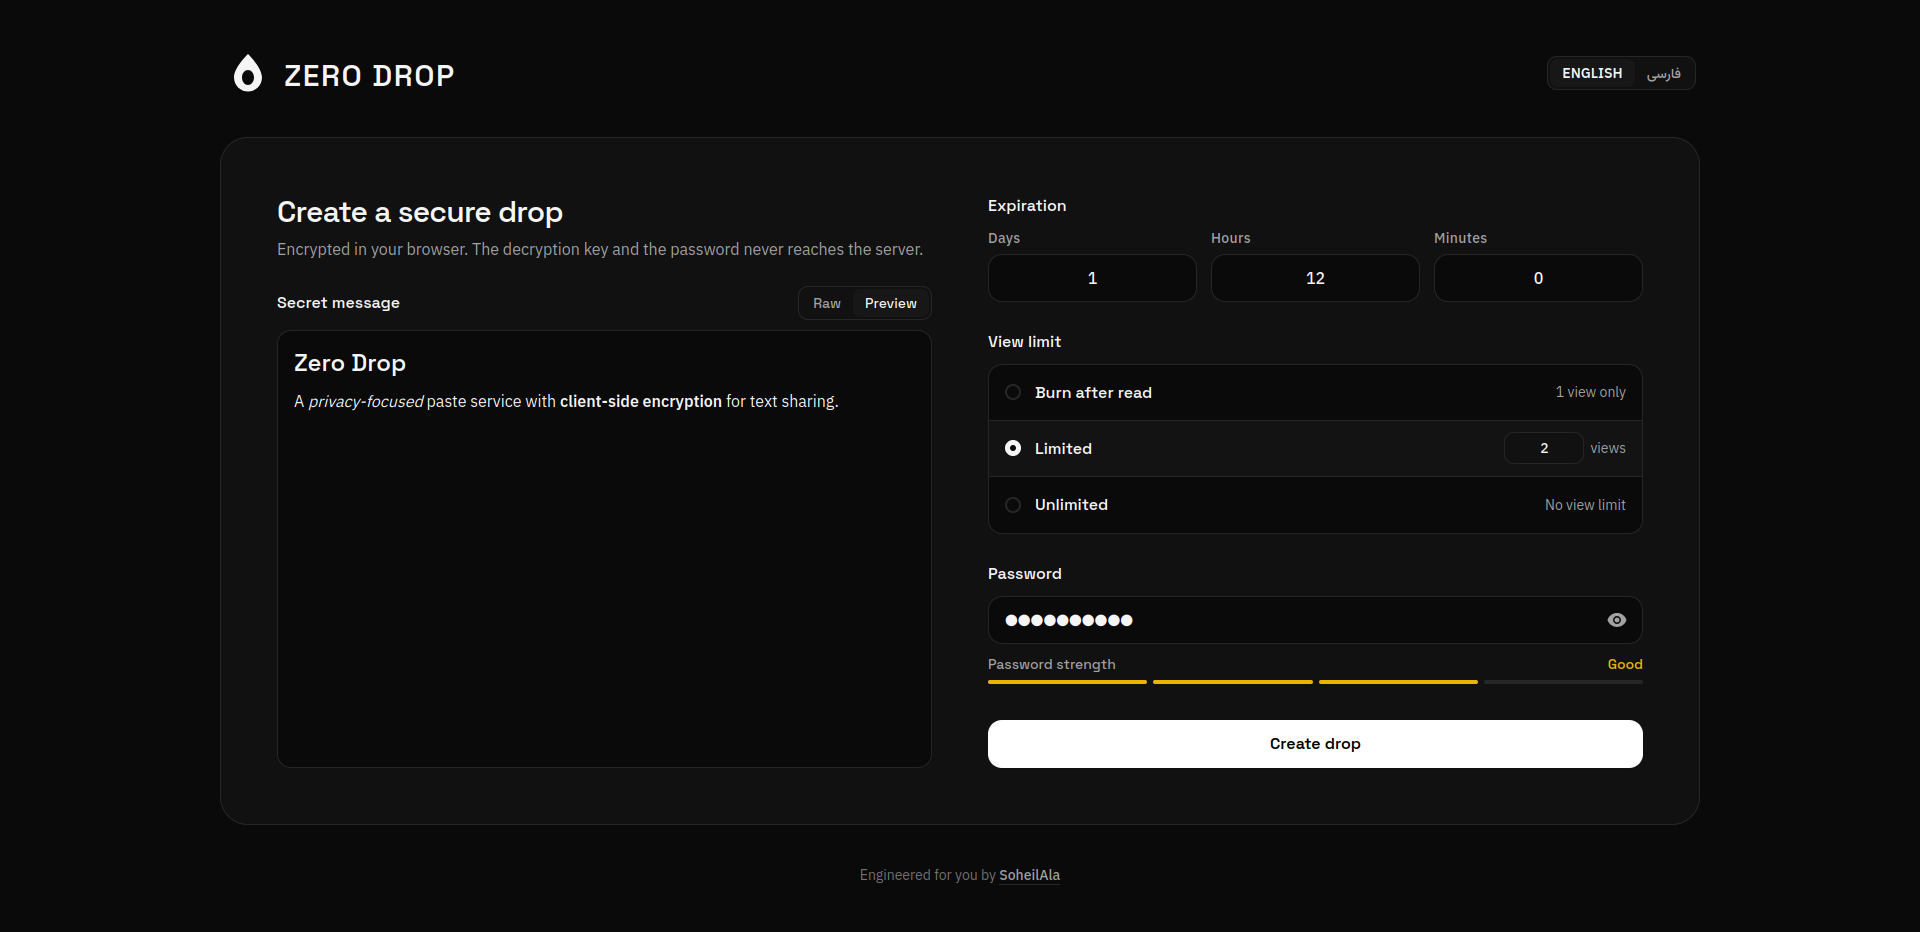
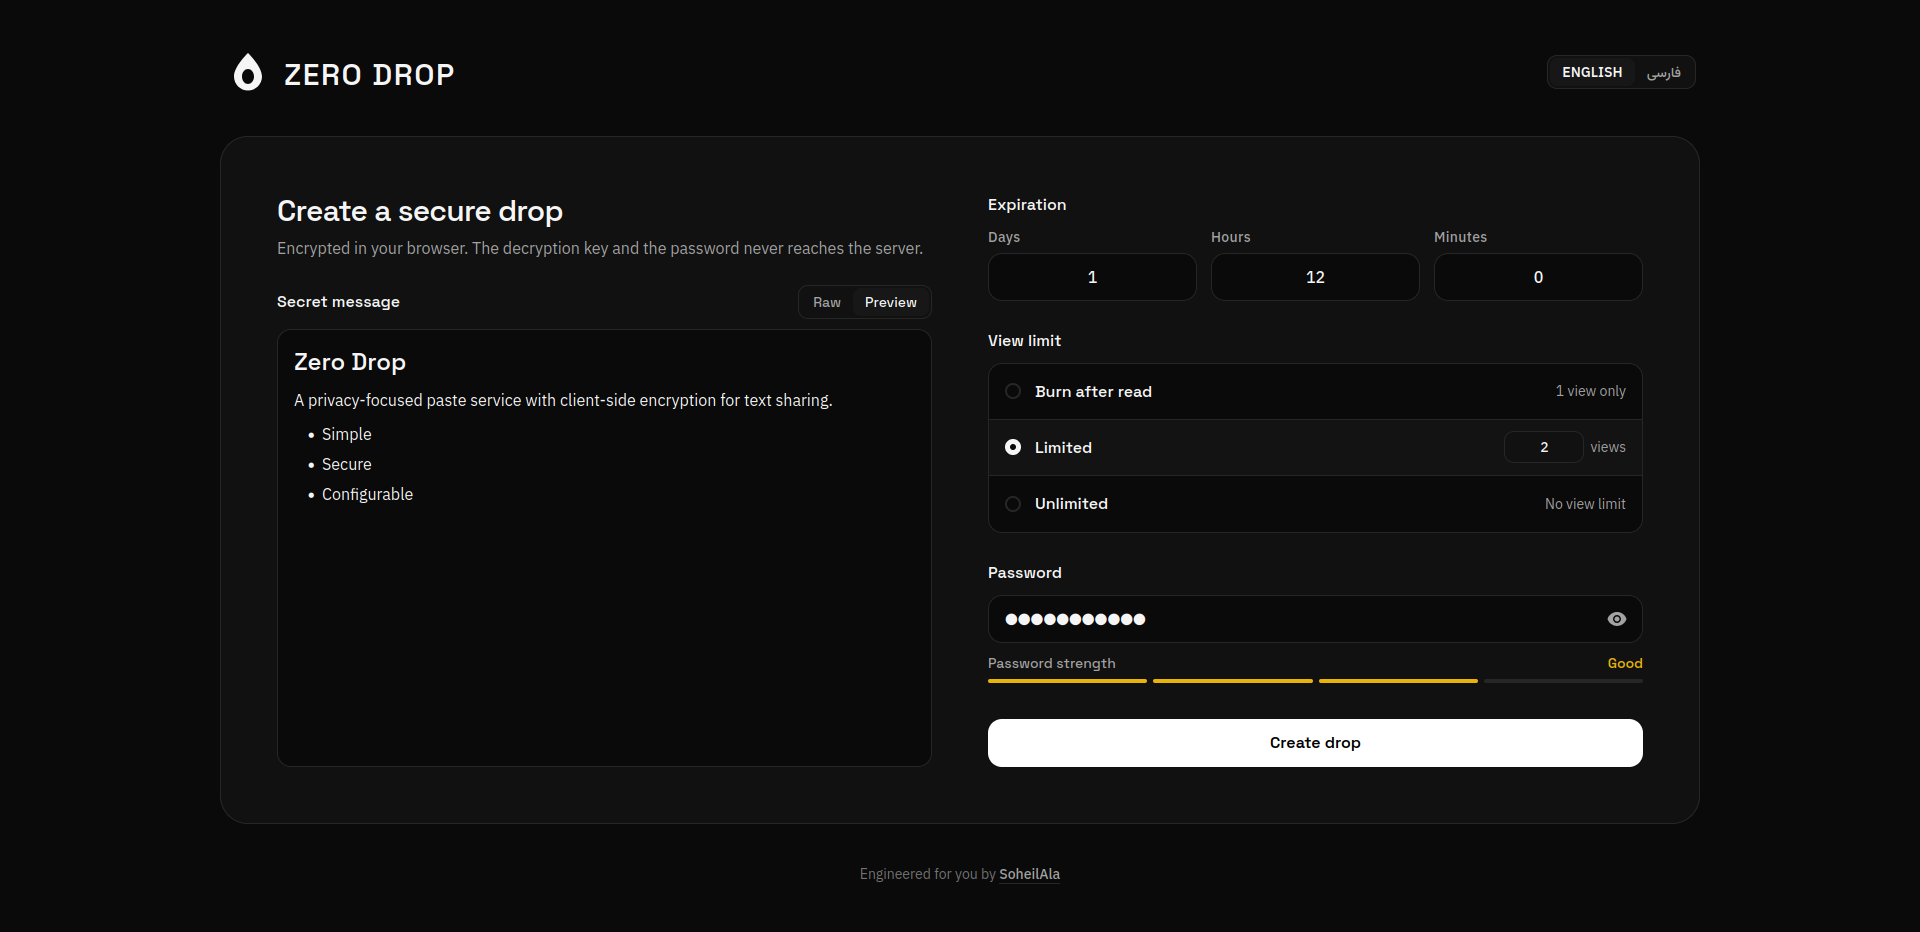
fix: resolve markdown preview RTL alignment, task lists, and codeblock styling

diff --git a/frontend/src/style.css b/frontend/src/style.css
@@ -10,12 +10,15 @@
 @import "@fontsource/vazirmatn/500.css";
 @import "@fontsource/vazirmatn/600.css";
 @import "@fontsource/vazirmatn/700.css";
+@import "@fontsource/space-mono/400.css";
+@import "@fontsource/space-mono/700.css";
 
 @theme {
   --font-sans:
     "IBM Plex Sans", Vazirmatn, -apple-system, BlinkMacSystemFont, "Segoe UI", Roboto, sans-serif;
   --font-heading:
     "Space Grotesk", Vazirmatn, -apple-system, BlinkMacSystemFont, "Segoe UI", Roboto, sans-serif;
+  --font-mono: "Space Mono", ui-monospace, SFMono-Regular, Menlo, Monaco, Consolas, monospace;
 
   --color-background: #0a0a0a;
   --color-surface: #111111;
@@ -157,14 +160,14 @@ input[type="number"] {
 
 .markdown-body ul {
   list-style-type: disc;
-  padding-inline-start: 1.5rem;
+  padding-inline-start: 1.75rem;
   margin-top: 0.5rem;
   margin-bottom: 0.5rem;
 }
 
 .markdown-body ol {
   list-style-type: decimal;
-  padding-inline-start: 1.5rem;
+  padding-inline-start: 1.75rem;
   margin-top: 0.5rem;
   margin-bottom: 0.5rem;
 }
@@ -172,6 +175,24 @@ input[type="number"] {
 .markdown-body li {
   margin-top: 0.25rem;
   margin-bottom: 0.25rem;
+}
+
+/* Task list checkbox items: no bullet, proper spacing */
+.markdown-body ul li.task-list-item,
+.markdown-body ul li:has(input[type="checkbox"]) {
+  list-style-type: none;
+}
+
+.markdown-body ul:has(input[type="checkbox"]) {
+  padding-inline-start: 0.5rem;
+}
+
+.markdown-body input[type="checkbox"] {
+  margin: 0;
+  margin-inline-end: 0.5rem;
+  accent-color: var(--color-primary);
+  vertical-align: middle;
+  cursor: default;
 }
 
 .markdown-body li > ul,
@@ -182,7 +203,7 @@ input[type="number"] {
 
 .markdown-body blockquote {
   border-inline-start: 3px solid var(--color-border);
-  padding-inline-start: 1rem;
+  padding-inline-start: 1.25rem;
   margin-top: 0.75rem;
   margin-bottom: 0.75rem;
   color: var(--color-text-muted);
@@ -190,8 +211,8 @@ input[type="number"] {
 }
 
 .markdown-body code:not(pre code) {
-  font-family: ui-monospace, SFMono-Regular, Menlo, Monaco, Consolas, monospace;
-  font-size: 0.875em;
+  font-family: var(--font-mono);
+  font-size: 0.85em;
   padding: 0.15em 0.4em;
   border-radius: var(--radius-sm);
   background-color: var(--color-surface);
@@ -200,20 +221,21 @@ input[type="number"] {
 }
 
 .markdown-body pre {
-  font-family: ui-monospace, SFMono-Regular, Menlo, Monaco, Consolas, monospace;
-  font-size: 0.875rem;
-  line-height: 1.5;
-  padding: 0.875rem 1rem;
-  margin-top: 0.75rem;
-  margin-bottom: 0.75rem;
+  font-family: var(--font-mono);
+  font-size: 0.85rem;
+  line-height: 1.65;
+  padding: 1rem 1.25rem;
+  margin-top: 0.875rem;
+  margin-bottom: 0.875rem;
   border-radius: var(--radius-lg);
-  background-color: var(--color-surface);
+  background-color: #060606;
   border: 1px solid var(--color-border);
   overflow-x: auto;
-  color: var(--color-text);
+  color: #f0f0f0;
   direction: ltr;
   text-align: left;
   unicode-bidi: normal;
+  box-shadow: inset 0 1px 3px rgba(0, 0, 0, 0.5);
 }
 
 .markdown-body code {
@@ -222,11 +244,14 @@ input[type="number"] {
 }
 
 .markdown-body pre code {
+  font-family: var(--font-mono);
   background: transparent;
   border: 0;
   padding: 0;
   color: inherit;
   font-size: inherit;
+  white-space: pre;
+  tab-size: 2;
 }
 
 .markdown-body hr {

diff --git a/frontend/src/utils/markdown.ts b/frontend/src/utils/markdown.ts
@@ -1,5 +1,5 @@
 import DOMPurify, { type DOMPurify as DOMPurifyInstance } from "dompurify";
-import { marked } from "marked";
+import { marked, type Tokens } from "marked";
 
 export function escapeHtml(text: string): string {
   return text
@@ -25,6 +25,13 @@ marked.use({
   renderer: {
     html({ text }: { text: string }) {
       return escapeHtml(text);
+    },
+    listitem(item: Tokens.ListItem) {
+      const text = this.parser.parse(item.tokens);
+      if (item.task) {
+        return `<li class="task-list-item">${text}</li>\n`;
+      }
+      return `<li>${text}</li>\n`;
     },
   },
 });
@@ -58,13 +65,19 @@ function getPurify(): DOMPurifyInstance | null {
     });
 
     purifyInstance.addHook("afterSanitizeElements", (node: Node) => {
-      if (
-        node.nodeType === 1 &&
-        ["P", "H1", "H2", "H3", "H4", "H5", "H6", "LI", "BLOCKQUOTE"].includes(
-          (node as Element).tagName,
-        )
-      ) {
-        (node as Element).setAttribute("dir", "auto");
+      if (node.nodeType === 1) {
+        const el = node as Element;
+        const tag = el.tagName;
+        if (["P", "H1", "H2", "H3", "H4", "H5", "H6", "UL", "OL", "BLOCKQUOTE"].includes(tag)) {
+          // If P is inside blockquote or li, let parent container resolve direction
+          if (
+            tag === "P" &&
+            (el.parentElement?.tagName === "BLOCKQUOTE" || el.parentElement?.tagName === "LI")
+          ) {
+            return;
+          }
+          el.setAttribute("dir", "auto");
+        }
       }
     });
 

diff --git a/frontend/src/utils/markdown.test.ts b/frontend/src/utils/markdown.test.ts
@@ -79,8 +79,10 @@ const x: number = 42;
   assert.ok(output.includes("<strong>bold</strong>"));
   assert.ok(output.includes("<em>italic</em>"));
   assert.ok(output.includes("<del>strike</del>"));
-  assert.ok(output.includes('<li dir="auto">bullet 1</li>'));
-  assert.ok(output.includes('<li dir="auto">numbered 1</li>'));
+  assert.ok(output.includes('<ul dir="auto">'));
+  assert.ok(output.includes("<li>bullet 1</li>"));
+  assert.ok(output.includes('<ol dir="auto">'));
+  assert.ok(output.includes("<li>numbered 1</li>"));
   assert.ok(output.includes('<blockquote dir="auto">'));
   assert.ok(output.includes("<code>inline code</code>"));
   assert.ok(output.includes('<pre><code class="language-ts">'));
@@ -96,6 +98,14 @@ test("escapeHtml escapes special characters properly", () => {
     escaped,
     "&lt;script&gt;alert(&quot;xss &amp; &#039;danger&#039;&quot;)&lt;/script&gt;",
   );
+});
+
+test("renders task list checkboxes with task-list-item class without bullet", () => {
+  const md = "- [ ] todo task\n- [x] completed task";
+  const output = renderMarkdown(md);
+  assert.ok(output.includes('<li class="task-list-item">'));
+  assert.ok(output.includes('<input disabled="" type="checkbox">'));
+  assert.ok(output.includes('<input checked="" disabled="" type="checkbox">'));
 });
 
 test("handles empty and whitespace-only strings gracefully", () => {

diff --git a/frontend/src/i18n/fa.ts b/frontend/src/i18n/fa.ts
@@ -1,7 +1,7 @@
 export const fa = {
   // App & Layout
-  "app.title": "زیرو دراپ",
-  "app.footer.builtWith": "مهندسیشده برای تو توسط",
+  "app.title": "ZERO DROP",
+  "app.footer.builtWith": "مهندسیشده برای شما توسط",
 
   // CreateDropForm
   "create.title": "ساخت دراپ امن",

diff --git a/frontend/src/components/AppHeader.vue b/frontend/src/components/AppHeader.vue
@@ -5,6 +5,7 @@ import { locale, setLocale, t } from "@/i18n";
 
 <template>
     <header
+        dir="ltr"
         class="w-full mb-8 sm:mb-10 flex items-center justify-between px-1 select-none"
     >
         <RouterLink

diff --git a/README.md b/README.md
@@ -1,12 +1,18 @@
-[English](README.en.md) | **فارسی**
+<p align="center">
+  <img src="frontend/public/favicon.svg" alt="Zero Drop" width="64" height="64" />
+</p>
 
-# زیرو دراپ (Zero Drop)
+<h1 align="center">Zero Drop</h1>
+
+<p align="center">
+  <a href="README.en.md">English</a> | <strong>فارسی</strong>
+</p>
 
 یه سرویس اشتراکگذاری متن، متمرکز بر حفظ حریم خصوصی با رمزنگاری سمت کلاینت.
 
 ![فرم ایجاد دراپ](docs/screenshots/create-form-fa.png)
 
-## ویژگیها
+## ✨ ویژگیها
 
 - رمزنگاری سمت کلاینت با AES-256-GCM (پیام و رمز عبور هرگز در سرور ذخیره نمیشن)
 - تعیین زمان انقضا و محدودیت تعداد بازدید
@@ -14,7 +20,7 @@
 - پشتیبانی از Markdown همراه با پیشنمایش زنده و ایمنسازی در برابر حملات XSS
 - دارای Rate limiting و هدرهای امنیتی
 
-## نحوه کار
+## ❓ نحوه کار
 
 ```text
 User
@@ -40,7 +46,7 @@ Browser
 - در دراپهای معمولی، کلید رمزگشایی داخل بخش فرگمنت URL نگهداری میشه و هیچ وقت به سرور نمیرسه.
 - در دراپهای محافظتشده با رمز، رمز عبور مستقیما در مرورگر برای تولید کلید رمزگشایی استفاده میشه و خود رمز هیچ وقت به سرور ارسال نمیشه.
 
-## تکنولوژیها
+## 🛠 تکنولوژیها
 
 - FastAPI
 - PostgreSQL
@@ -49,9 +55,7 @@ Browser
 - TypeScript
 - Tailwind CSS
 
-## اجرای سریع با Docker
-
-اجرای تمام سرویسها (دیتابیس، مایگریشنها، بکاند و پروکسی فرانتاند):
+## 🚀 اجرای سریع با Docker
 
 ### ۱. تنظیم متغیرهای محیطی
 
@@ -59,8 +63,6 @@ Browser
 cp .env.example .env
 cp backend/.env.example backend/.env
 ```
-
-متغیرهای محیطی رو تنظیم کنید.
 
 ### ۲. بیلد و اجرای سرویسها
 
@@ -70,7 +72,7 @@ docker compose up -d --build
 
 برنامه در آدرس `http://localhost:8080` و API در `http://localhost:8000` در دسترس خواهد بود.
 
-## توسعه محلی
+## 💻 توسعه لوکال
 
 ### ۱. بکاند
 
@@ -89,10 +91,11 @@ uv run fastapi dev
 
 ```bash
 cd frontend
-pnpm install && pnpm test
+pnpm install
+pnpm test
 pnpm dev
 ```
 
-## مجوز (License)
+## 📄 لایسنس
 
-این پروژه تحت مجوز [MIT](LICENSE) منتشر شده.
+این پروژه تحت لایسنس [MIT](LICENSE) منتشر شده.

diff --git a/README.en.md b/README.en.md
@@ -1,12 +1,18 @@
-**English** | [فارسی](README.md)
+<p align="center">
+  <img src="frontend/public/favicon.svg" alt="Zero Drop" width="64" height="64" />
+</p>
 
-# Zero Drop
+<h1 align="center">Zero Drop</h1>
+
+<p align="center">
+  <strong>English</strong> | <a href="README.md">فارسی</a>
+</p>
 
 A privacy-focused paste service with client-side encryption for text sharing.
 
 ![Create Drop Form](docs/screenshots/create-form-en.png)
 
-## Features
+## ✨ Features
 
 - Client-side encryption with AES-256-GCM (No plaintext or password stored on the server)
 - Expiration time and view limits
@@ -14,7 +20,7 @@ A privacy-focused paste service with client-side encryption for text sharing.
 - Markdown support with XSS sanitization
 - Rate limiting and security headers
 
-## How It Works
+## ❓ How It Works
 
 ```text
 User
@@ -41,7 +47,7 @@ For regular drops, the encryption key is kept in the URL fragment and never sent
 
 For password-protected drops, the password is used locally to derive the encryption key. The password itself is never sent to the server.
 
-## Stack
+## 🛠 Stack
 
 - FastAPI
 - PostgreSQL
@@ -50,9 +56,7 @@ For password-protected drops, the password is used locally to derive the encrypt
 - TypeScript
 - Tailwind CSS
 
-## Quick Start with Docker
-
-Run the entire stack (Database, Migrations, Backend, and Frontend reverse proxy):
+## 🚀 Quick Start with Docker
 
 ### 1. Environment Setup
 
@@ -60,8 +64,6 @@ Run the entire stack (Database, Migrations, Backend, and Frontend reverse proxy)
 cp .env.example .env
 cp backend/.env.example backend/.env
 ```
-
-Set environment variables.
 
 ### 2. Build and start all services
 
@@ -71,7 +73,7 @@ docker compose up -d --build
 
 The application will be accessible at `http://localhost:8080`, with the API at `http://localhost:8000`.
 
-## Local Development
+## 💻 Local Development
 
 ### 1. Backend
 
@@ -95,6 +97,6 @@ pnpm test
 pnpm dev
 ```
 
-## License
+## 📄 License
 
 This project is licensed under the [MIT License](LICENSE).
